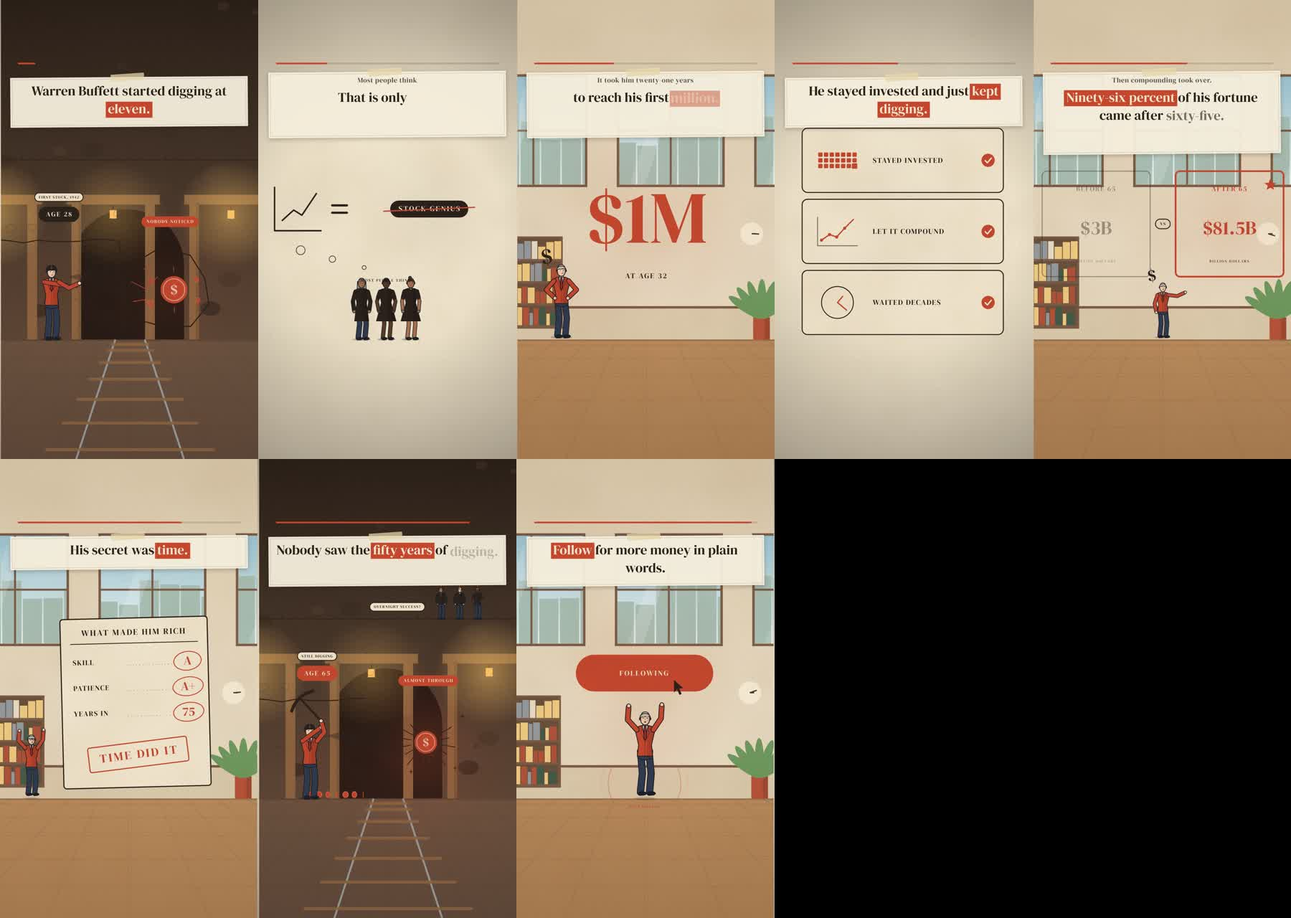
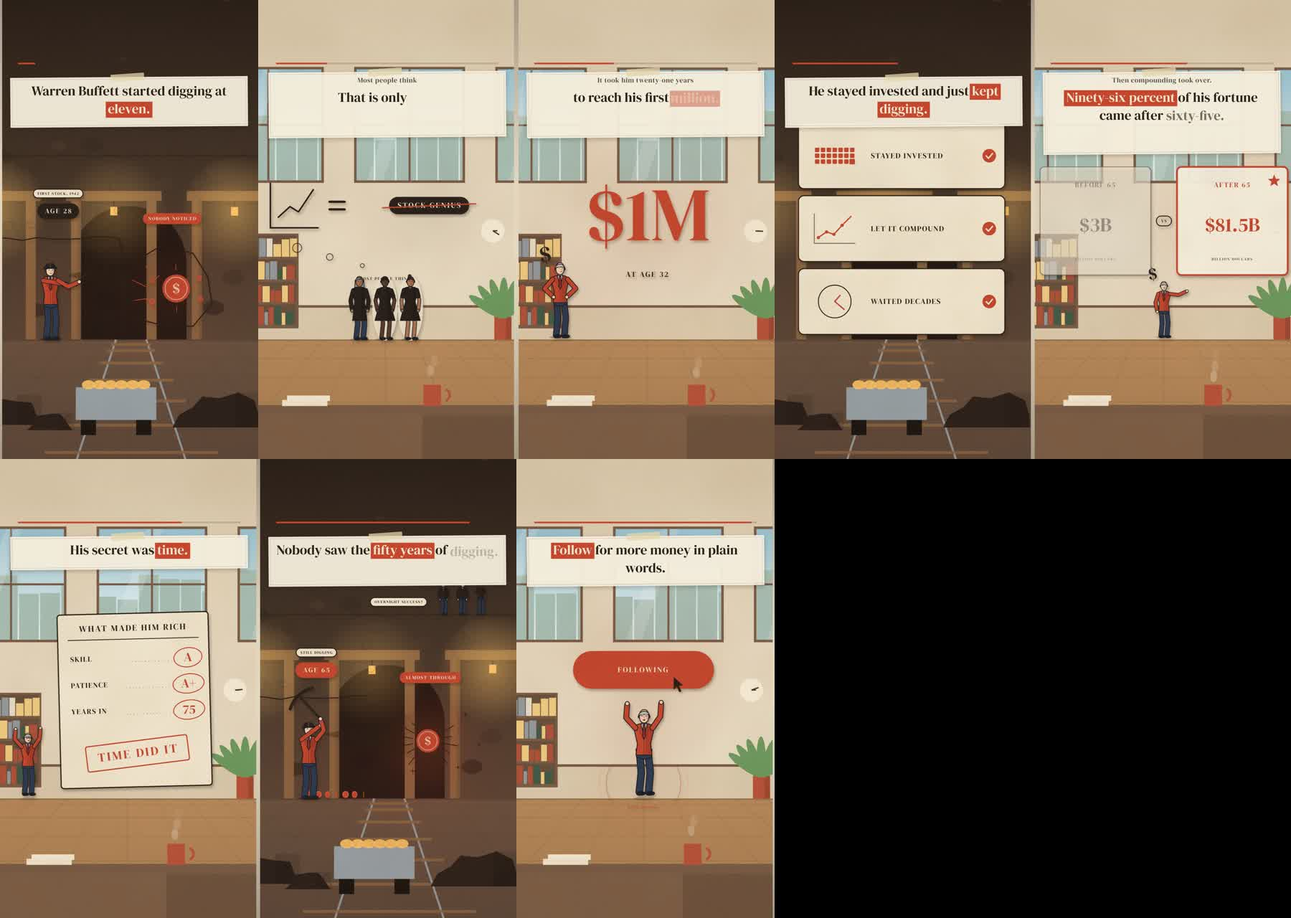
Characters and graphics sit inside the place; more movement
- Painted mode: every scene gets a place, and everything in front casts a
  soft cut-paper shadow onto it; comparison cards sit on paper
- Life in places: distant passers-by, birds, and close-up foreground props
  (desk with steaming cup, crates, bench, rocks, mine cart) in tall videos
- People shift their weight and move their heads while standing
- Stronger push-in and pan across painted places
- photo.js: use upload.wikimedia.org for thumbnails

Claude-Session: https://claude.ai/code/session_0187hUoDL1qA6raHesfUDHR6

diff --git a/Pictogram Studio.html b/Pictogram Studio.html
@@ -388,6 +388,7 @@ details[open] > summary { margin-bottom: 10px; }
       if (act === 'slump' || mood === 'sleep') { lean += 0.045 * dir; headDy += h * 0.012; tilt = 0.2 * dir; }
       if (mood === 'sad') { headDy += h * 0.006; tilt += 0.06 * dir; }
       if (mood === 'think') tilt -= 0.07 * dir;
+      if (!moving && act !== 'jump' && act !== 'cheer' && o.idle !== false) { lean += Math.sin(t * 0.9 + sd * 5) * 0.007; tilt += Math.sin(t * 0.7 + sd * 3) * 0.03 + (talk ? Math.sin(t * 3.1) * 0.04 : 0); } // weight shifts and small head moves while standing
       if (mood === 'shock' && st < 0.35) hop += Math.sin((st / 0.35) * Math.PI) * h * 0.025;
       if (act === 'shrug') { shUp = 0.02 + 0.004 * Math.sin(t * 3); tilt += 0.08 * dir; }
       if (mood === 'worried') lean += 0.004 * Math.sin(t * 31);
@@ -1096,7 +1097,7 @@ details[open] > summary { margin-bottom: 10px; }
       [['left', -1], ['right', 1]].forEach(([k, sg], i) => {
         const x = 960 + sg * off, a = g.in(0.1 + i * 0.25, 0.35), isW = P.winner === k, dim = 1 - 0.6 * win * (P.winner !== 'none' && !isW ? 1 : 0), col = isW && win > 0.5 ? g.ac : g.fg;
         if (isW) g.halo(x, cy, pw * 0.85, 0.3 * win);
-        c.save(); c.globalAlpha *= a * dim; c.strokeStyle = col; c.lineWidth = isW ? 4 + 3 * win : 4; g.rr(x - pw / 2, cy - ph / 2 + (1 - a) * 40, pw, ph, 18); c.stroke(); c.restore();
+        c.save(); c.globalAlpha *= a * dim; c.strokeStyle = col; c.lineWidth = isW ? 4 + 3 * win : 4; g.rr(x - pw / 2, cy - ph / 2 + (1 - a) * 40, pw, ph, 18); if (g.paint) { c.save(); c.globalAlpha = Math.min(1, c.globalAlpha * 1.6); c.fillStyle = 'rgba(248,240,222,0.95)'; c.fill(); c.restore(); } c.stroke(); c.restore();
         g.text(P[k], x, cy - ph / 2 + 74, { size: g.V(34, 28), wt: 700, ls: 0.12, a: a * dim, col });
         const v = (+P[k + 'Value'] || 0) * eo(ramp(t, 0.4 + i * 0.25, 0.9)), dec = Math.min(3, (String(P[k + 'Value']).split('.')[1] || '').length);
         c.save(); g.font(800, g.V(98, 78), 0); c.textAlign = 'center'; c.textBaseline = 'middle'; c.fillStyle = col; c.globalAlpha = a * dim; c.fillText((P.prefix || '') + (dec ? v.toFixed(dec) : fmt(v)) + (P.suffix || ''), x, cy + 22); c.restore();
@@ -1542,7 +1543,35 @@ details[open] > summary { margin-bottom: 10px; }
         for (let k = 0; k < 110; k++) { const x = hash(k + 1) * (x1 - x0) + x0 - drift * 20, y = top + hash(k + 7) * (GY - top), r = 1 + hash(k + 3) * 2.2; c.fillStyle = paint ? 'rgba(255,250,235,' + (0.3 + 0.6 * Math.abs(Math.sin(t * (0.6 + hash(k)) + k))) + ')' : rgba(fg, 0.2 + 0.6 * Math.abs(Math.sin(t * (0.6 + hash(k)) + k))); c.beginPath(); c.arc(x, y, r, 0, TAU); c.fill(); }
         layer(0.3, 0, () => { const gr = c.createRadialGradient(1500, GY + 900, 200, 1500, GY + 900, 1250); gr.addColorStop(0, paint ? 'rgba(130,140,220,0.5)' : rgba(ac, 0.28)); gr.addColorStop(1, 'rgba(0,0,0,0)'); c.fillStyle = gr; c.beginPath(); c.arc(1500, GY + 900, 1050, 0, TAU); c.fill(); E('red', g.V(300, 520), g.V(560, 640), 70, 70, paint ? 0.9 : 1); E('dark', g.V(320, 540), g.V(550, 630), 60, 60, 0.25); }); break;
     }
+    if (o.life !== false) { // life behind the action: people passing by in the distance, birds
+      const walkers = paint ? ({ city: 4, street: 5, market: 5, night: 3, office: 2, bank: 2, factory: 2, lab: 1, ancient: 3, farm: 1, runway: 1, courtroom: 0 }[kind] || 0) : 0;
+      for (let k = 0; k < walkers; k++) { const dir = hash(k + 3) > 0.5 ? 1 : -1, sp = 45 + hash(k + 5) * 55, wx = mod(hash(k + 1) * 2600 + t * sp * dir, 2600) - 340 - drift * 40; g.person(wx, indoor ? 200 : 165, { scale: 1, y: GY - (indoor ? 36 : 64), col: pal[k % 2 ? 'mid' : 'near'] || pal.trim, a: 0.85, act: 'walk', dir, st: t * (sp / 60) + k, seed: 40 + k * 7, shadow: false, idle: false }); }
+      if (/^(sky|hills|farm|castle|ancient|desert|forest|runway|sea)$/.test(kind)) { c.save(); c.strokeStyle = C('dark', paint ? 0.55 : 1.4); c.lineWidth = 4; c.lineCap = 'round'; for (let k = 0; k < 4; k++) { const bx = mod(hash(k + 11) * 2600 + t * (55 + k * 14), 2600) - 340, by = g.V(300, 120) + hash(k + 13) * 220 + Math.sin(t * 1.5 + k) * 12, fl = Math.sin(t * 9 + k * 2) * 11, w = 22 - k * 2; c.beginPath(); c.moveTo(bx - w, by - fl); c.quadraticCurveTo(bx - w * 0.4, by - 6, bx, by); c.quadraticCurveTo(bx + w * 0.4, by - 6, bx + w, by - fl); c.stroke(); } c.restore(); }
+    }
     if (paint && !indoor) { c.save(); c.fillStyle = 'rgba(255,240,210,0.10)'; c.fillRect(x0, GY - 260, x1 - x0, 260); c.restore(); } // haze near the horizon
+    // foreground: things close to the camera in the band under the ground (seen in tall videos), moving faster than everything else
+    const FGK = { office: 'desk', classroom: 'desk', lab: 'desk', bank: 'rope', courtroom: 'rail', stage: 'lights', home: 'sofa', city: 'bench', street: 'bench', night: 'bench', market: 'crates', factory: 'crates', mine: 'rocks', desert: 'rocks', ancient: 'ruins', castle: 'rocks', farm: 'bales', forest: 'bush', hills: 'bush', sea: 'posts', runway: 'cones', sky: 'bush', space: 'rocks' }, fk = o.fore === false ? '' : FGK[kind];
+    if (fk && g.vert && paint) layer(1.9, 0, () => { const Y = GY + 300, L0 = 470, R0 = 1450, rnd = q => hash(q * 7.3 + kind.length);
+      const crate = (x, y, w) => { R('trim', x, y - w, w, w); shade(x, y - w, w, w, 1); c.strokeStyle = paint ? 'rgba(20,12,6,0.3)' : C('dark'); c.lineWidth = 6; c.strokeRect(x + 8, y - w + 8, w - 16, w - 16); c.beginPath(); c.moveTo(x + 8, y - w + 8); c.lineTo(x + w - 8, y - 8); c.stroke(); };
+      const rock = (x, y, r) => { c.fillStyle = C('near'); c.beginPath(); for (let q = 0; q < 9; q++) { const an = Math.PI + (q / 8) * Math.PI, rr = r * (0.8 + 0.3 * rnd(q + x)); c.lineTo(x + Math.cos(an) * rr * 1.3, y + Math.sin(an) * rr); } c.closePath(); c.fill(); shade(x - r * 1.3, y - r, r * 2.6, r, 1); };
+      const bush = (x, y, r) => { [[-0.6, 0.1, 0.7], [0.5, 0.15, 0.65], [0, -0.25, 0.8]].forEach(([dx, dy, k]) => E(kind === 'farm' ? 'leaf' : 'near', x + dx * r, y + dy * r, r * k, r * k * 0.85)); };
+      switch (fk) {
+        case 'desk': R('trim', 330, Y - 40, 1260, 40); R('trim', 360, Y, 1200, 600, 0.92); shade(360, Y, 1200, 600, 1); R('cream', 620, Y - 60, 180, 24, 0.95); R('cream', 640, Y - 78, 170, 22); R('red', 1180, Y - 120, 70, 84); c.strokeStyle = C('red'); c.lineWidth = 10; c.beginPath(); c.arc(1260, Y - 80, 24, -1.2, 1.2); c.stroke();
+          for (let q = 0; q < 3; q++) { c.save(); c.globalAlpha *= 0.35 * (1 - mod(t * 0.4 + q / 3, 1)); E('cream', 1215 + Math.sin(t * 2 + q) * 10, Y - 140 - mod(t * 0.4 + q / 3, 1) * 120, 14, 22); c.restore(); } break;
+        case 'rope': [L0 + 20, R0 - 20].forEach(x => { R('metal', x - 10, Y - 200, 20, 260); E('light', x, Y - 206, 24, 24); }); c.strokeStyle = C('red'); c.lineWidth = 16; c.beginPath(); c.moveTo(L0 + 20, Y - 180); c.quadraticCurveTo(960, Y - 60 + Math.sin(t * 1.4) * 8, R0 - 20, Y - 180); c.stroke(); break;
+        case 'rail': R('trim', 300, Y - 160, 1320, 30); for (let x = 320; x < 1620; x += 70) R('trim', x, Y - 130, 22, 300); R('dark', 300, Y + 160, 1320, 40, 0.8); break;
+        case 'lights': R('dark', 300, Y - 40, 1320, 400); for (let k = 0; k < 9; k++) { const lx = 420 + k * 135; E('light', lx, Y - 40, 34, 16); glowAt(lx, Y - 60, 160, 0.55 + 0.15 * Math.sin(t * 3 + k)); } break;
+        case 'sofa': R('red', 380, Y - 80, 1160, 180, 0.95); E('red', 380, Y + 30, 90, 130); E('red', 1540, Y + 30, 90, 130); shade(380, Y - 80, 1160, 180, 1); R('cream', 760, Y - 60, 140, 90, 0.9); break;
+        case 'bench': R('trim', L0 - 40, Y - 120, 380, 28); R('trim', L0 - 40, Y - 70, 380, 28); R('dark', L0 - 10, Y - 42, 18, 110); R('dark', L0 + 300, Y - 42, 18, 110); R('red', R0 - 120, Y - 150, 70, 150); E('red', R0 - 85, Y - 150, 35, 22); R('red', R0 - 140, Y - 110, 110, 22); shade(R0 - 120, Y - 150, 70, 150, 1); break;
+        case 'crates': crate(L0 - 60, Y + 40, 220); crate(L0 + 150, Y + 40, 150); crate(L0 + 40, Y - 180, 140); crate(R0 - 190, Y + 40, 200); if (kind === 'market') for (let q = 0; q < 7; q++) E(['red', 'light', 'leaf'][q % 3], R0 - 160 + q * 26, Y - 170 - (q % 2) * 16, 22, 20); break;
+        case 'rocks': rock(L0 + 40, Y + 40, 120); rock(L0 + 230, Y + 60, 70); rock(R0 - 80, Y + 50, 140); if (kind === 'mine') { R('metal', 960 - 160, Y - 110, 320, 130); R('dark', 960 - 140, Y + 20, 60, 60); R('dark', 960 + 80, Y + 20, 60, 60); for (let q = 0; q < 6; q++) E('light', 960 - 110 + q * 44, Y - 120, 26, 18, 0.9); } break;
+        case 'ruins': R('cream', L0 - 20, Y - 260, 110, 300); shade(L0 - 20, Y - 260, 110, 300, 1); R('cream', R0 - 260, Y - 60, 260, 100); shade(R0 - 260, Y - 60, 260, 100, 1); rock(960 + 120, Y + 60, 60); break;
+        case 'bales': [[L0 + 60, 120], [L0 + 250, 90], [R0 - 120, 130]].forEach(([x, r]) => { E('light', x, Y + 20, r, r * 0.9); c.strokeStyle = paint ? 'rgba(120,80,20,0.4)' : C('dark'); c.lineWidth = 5; c.beginPath(); c.arc(x, Y + 20, r * 0.6, 0, TAU); c.stroke(); }); break;
+        case 'bush': bush(L0 + 60, Y + 30, 150); bush(R0 - 60, Y + 50, 170); break;
+        case 'posts': [L0 + 40, R0 - 60].forEach(x => { R('trim', x - 40, Y - 280, 80, 420); shade(x - 40, Y - 280, 80, 420, 1); }); c.strokeStyle = C('cream', 1); c.lineWidth = 12; c.beginPath(); c.moveTo(L0 + 40, Y - 220); c.quadraticCurveTo(960, Y - 80 + Math.sin(t * 1.2) * 10, R0 - 60, Y - 220); c.stroke(); break;
+        case 'cones': [L0 + 60, L0 + 230, R0 - 80].forEach((x, q) => { Poly('red', [[x - 50, Y + 40], [x, Y - 120 + q * 20], [x + 50, Y + 40]]); R('cream', x - 30, Y - 50 + q * 10, 60, 18); }); break;
+      } });
+
   }
   function stageOf(g) { const top = g.V(250, 150), xl = g.V(360, 450), xr = g.V(1560, 1470), H = g.GY - top; return { U: H / 100, W: xr - xl, H, xl, xr, X: x => xl + (x / 100) * (xr - xl), Y: y => top + (y / 100) * H }; }
   function drawItems(g, items, st, inGroup, depth) {
@@ -1590,7 +1619,7 @@ details[open] > summary { margin-bottom: 10px; }
           const em = cur.emote ? String(cur.emote).slice(0, 3) : ''; if (em && st >= 0) { const zz = /^z+$/i.test(em), ex0 = -dir * h * 0.2, ey0 = -h * 1.1; if (zz) for (let k = 0; k < 3; k++) { const ph = mod(g.t * 0.5 + k / 3, 1); g.text('Z', ex0 - dir * ph * h * 0.25, ey0 - ph * h * 0.4, { size: h * (0.09 + 0.07 * ph), a: Math.sin(ph * Math.PI), col: g.fg, wt: 800, ls: 0 }); } else { const ps = back(clamp(st / 0.3)); c.save(); c.translate(ex0, ey0 + Math.sin(g.t * 5) * h * 0.02); c.scale(ps, ps); c.rotate(-dir * 0.14); g.text(em.toUpperCase(), 0, 0, { size: h * 0.3, col: pc === g.ac ? g.fg : g.ac, wt: 900, ls: 0 }); c.restore(); } }
           break; }
         case 'photo': case 'image': drawPhoto(g, e, num(e.w, 40) * U, col); break;
-        case 'scenery': c.restore(); c.save(); c.globalAlpha *= clamp(a); drawScenery(g, e.kind || e.name, e); break;
+        case 'scenery': if (g.skipScenery) break; c.restore(); c.save(); c.globalAlpha *= clamp(a); drawScenery(g, e.kind || e.name, e); break;
         case 'crowd': { const n = clamp(num(e.n, 3) | 0, 1, 9), h = num(e.h, 22) * U; for (let k = 0; k < n; k++) g.person((k - (n - 1) / 2) * h * 0.5, h, { y: 0, col: col || g.fg, ol: k > 0 }); break; }
         case 'icon': g.icon(String(e.name || 'star'), 0, 0, size(18), col || g.fg, Math.max(3, num(e.width, 0.6) * U)); break;
         case 'coin': g.coin(0, 0, size(12) / 2, e.symbol == null ? '$' : String(e.symbol), e.spin ? g.t * 2.4 * (e.spin === true ? 1 : +e.spin || 1) : 0, 1); break;
@@ -1713,11 +1742,13 @@ details[open] > summary { margin-bottom: 10px; }
     if (i > 0 && lt < TI) { const k = kindAt(i - 1); if (k !== 'cut') { const p = lt / TI; alpha = eo(p); move(k, p, true); } }
     if (!last && lt > sc.dur - TO) { const k = kindAt(i); if (k !== 'cut') { const p = (lt - (sc.dur - TO)) / TO; alpha = 1 - p; move(k, p, false); } }
     const L = layer.getContext('2d'); L.setTransform(1, 0, 0, 1, 0, 0); L.clearRect(0, 0, W, H);
-    let z = 1 + 0.035 * (lt / sc.dur); (sc.lines || []).forEach(l => { const dt = lt - (+l.at || 0); if (l.text && dt >= 0 && (+l.at > 0.05 || i > 0)) z += 0.02 * Math.exp(-dt * 9); }); /* small punch when a line lands */
+    let z = 1 + (look.scenery === 'painted' ? 0.07 : 0.035) * (lt / sc.dur); (sc.lines || []).forEach(l => { const dt = lt - (+l.at || 0); if (l.text && dt >= 0 && (+l.at > 0.05 || i > 0)) z += 0.02 * Math.exp(-dt * 9); }); /* small punch when a line lands */
     L.setTransform(px * sv * z, 0, 0, px * sv * z, px * (tx + 960 * sv * (1 - z)), px * (ty + 1031 * sv * (1 - z)));
-    const g = new G(L, proj, sc, lt, vert), vis = V[sc.visual]; if (vis) { try { const scn = sc.p && sc.p.scenery, hasScn = sc.visual === 'custom' && (sc.p.items || []).some(e => e && /^scenery$/i.test(e.is || '')); if (scn) drawScenery(g, typeof scn === 'object' ? scn.kind : scn, typeof scn === 'object' ? scn : null); else if (!hasScn && scn !== 'none') { const k = autoScenery(proj, sc, PEOPLE.indexOf(sc.visual) >= 0 || hasPerson(sc.p && (sc.visual === 'custom' ? sc.p.items : sc.p.cast))); if (k) drawScenery(g, k, null); } vis.draw(g); if (sc.visual !== 'custom' && Array.isArray(sc.p && sc.p.cast)) drawItems(g, sc.p.cast, stageOf(g), false, 0); } catch (e) { if (root.console) console.error(sc.visual, e); } }
+    const cut = look.scenery === 'painted'; let Lc = L; if (cut) { if (!render._c) render._c = doc.createElement('canvas'); const cc = render._c; if (cc.width !== W || cc.height !== H) { cc.width = W; cc.height = H; } Lc = cc.getContext('2d'); Lc.setTransform(1, 0, 0, 1, 0, 0); Lc.clearRect(0, 0, W, H); Lc.setTransform(L.getTransform()); }
+    const g = new G(Lc, proj, sc, lt, vert), gs = cut ? new G(L, proj, sc, lt, vert) : g, vis = V[sc.visual]; g.skipScenery = cut; if (vis) { try { if (cut && sc.visual === 'custom' && Array.isArray(sc.p.items)) sc.p.items.filter(e => e && /^scenery$/i.test(e.is || '')).slice(0, 1).forEach(e => drawScenery(gs, e.kind || e.name, e)); const scn = sc.p && sc.p.scenery, painted = look.scenery === 'painted', hasScn = sc.visual === 'custom' && (sc.p.items || []).some(e => e && /^scenery$/i.test(e.is || '')); if (scn) drawScenery(gs, typeof scn === 'object' ? scn.kind : scn, typeof scn === 'object' ? scn : null); else if (!hasScn && scn !== 'none') { const k = autoScenery(proj, sc, painted || PEOPLE.indexOf(sc.visual) >= 0 || hasPerson(sc.p && (sc.visual === 'custom' ? sc.p.items : sc.p.cast))); if (k) drawScenery(gs, k, null); } vis.draw(g); if (sc.visual !== 'custom' && Array.isArray(sc.p && sc.p.cast)) drawItems(g, sc.p.cast, stageOf(g), false, 0); } catch (e) { if (root.console) console.error(sc.visual, e); } }
+    if (cut) { L.save(); L.setTransform(1, 0, 0, 1, 0, 0); L.shadowColor = 'rgba(45,28,12,0.34)'; L.shadowBlur = 12 * px; L.shadowOffsetX = 5 * px; L.shadowOffsetY = 8 * px; L.drawImage(render._c, 0, 0); L.restore(); } // graphics and people sit in the place like cut paper, with a soft shadow on what is behind them
     if (g.shk > 0.2) { off += Math.sin(t * 97) * g.shk; offY += Math.cos(t * 83) * g.shk * 0.8; } // camera kick from a hit
-    off += (i % 2 ? -1 : 1) * 16 * (lt / sc.dur - 0.5); // slow sideways drift so no frame sits still
+    off += (i % 2 ? -1 : 1) * (look.scenery === 'painted' ? 34 : 16) * (lt / sc.dur - 0.5); // slow sideways drift so no frame sits still
     const blit = (a, dx, dy, s) => { ctx.globalAlpha = Math.min(1, a); if (!s || s === 1) ctx.drawImage(layer, dx * px, (dy || 0) * px); else ctx.drawImage(layer, (W - W * s) / 2 + dx * px, (H - H * s) / 2 + (dy || 0) * px, W * s, H * s); };
     // glow first (underneath), then the sharp layer on top so solid shapes keep their exact color
     ctx.globalCompositeOperation = 'lighter';

diff --git a/engine.js b/engine.js
@@ -98,6 +98,7 @@
       if (act === 'slump' || mood === 'sleep') { lean += 0.045 * dir; headDy += h * 0.012; tilt = 0.2 * dir; }
       if (mood === 'sad') { headDy += h * 0.006; tilt += 0.06 * dir; }
       if (mood === 'think') tilt -= 0.07 * dir;
+      if (!moving && act !== 'jump' && act !== 'cheer' && o.idle !== false) { lean += Math.sin(t * 0.9 + sd * 5) * 0.007; tilt += Math.sin(t * 0.7 + sd * 3) * 0.03 + (talk ? Math.sin(t * 3.1) * 0.04 : 0); } // weight shifts and small head moves while standing
       if (mood === 'shock' && st < 0.35) hop += Math.sin((st / 0.35) * Math.PI) * h * 0.025;
       if (act === 'shrug') { shUp = 0.02 + 0.004 * Math.sin(t * 3); tilt += 0.08 * dir; }
       if (mood === 'worried') lean += 0.004 * Math.sin(t * 31);
@@ -806,7 +807,7 @@
       [['left', -1], ['right', 1]].forEach(([k, sg], i) => {
         const x = 960 + sg * off, a = g.in(0.1 + i * 0.25, 0.35), isW = P.winner === k, dim = 1 - 0.6 * win * (P.winner !== 'none' && !isW ? 1 : 0), col = isW && win > 0.5 ? g.ac : g.fg;
         if (isW) g.halo(x, cy, pw * 0.85, 0.3 * win);
-        c.save(); c.globalAlpha *= a * dim; c.strokeStyle = col; c.lineWidth = isW ? 4 + 3 * win : 4; g.rr(x - pw / 2, cy - ph / 2 + (1 - a) * 40, pw, ph, 18); c.stroke(); c.restore();
+        c.save(); c.globalAlpha *= a * dim; c.strokeStyle = col; c.lineWidth = isW ? 4 + 3 * win : 4; g.rr(x - pw / 2, cy - ph / 2 + (1 - a) * 40, pw, ph, 18); if (g.paint) { c.save(); c.globalAlpha = Math.min(1, c.globalAlpha * 1.6); c.fillStyle = 'rgba(248,240,222,0.95)'; c.fill(); c.restore(); } c.stroke(); c.restore();
         g.text(P[k], x, cy - ph / 2 + 74, { size: g.V(34, 28), wt: 700, ls: 0.12, a: a * dim, col });
         const v = (+P[k + 'Value'] || 0) * eo(ramp(t, 0.4 + i * 0.25, 0.9)), dec = Math.min(3, (String(P[k + 'Value']).split('.')[1] || '').length);
         c.save(); g.font(800, g.V(98, 78), 0); c.textAlign = 'center'; c.textBaseline = 'middle'; c.fillStyle = col; c.globalAlpha = a * dim; c.fillText((P.prefix || '') + (dec ? v.toFixed(dec) : fmt(v)) + (P.suffix || ''), x, cy + 22); c.restore();
@@ -1252,7 +1253,35 @@
         for (let k = 0; k < 110; k++) { const x = hash(k + 1) * (x1 - x0) + x0 - drift * 20, y = top + hash(k + 7) * (GY - top), r = 1 + hash(k + 3) * 2.2; c.fillStyle = paint ? 'rgba(255,250,235,' + (0.3 + 0.6 * Math.abs(Math.sin(t * (0.6 + hash(k)) + k))) + ')' : rgba(fg, 0.2 + 0.6 * Math.abs(Math.sin(t * (0.6 + hash(k)) + k))); c.beginPath(); c.arc(x, y, r, 0, TAU); c.fill(); }
         layer(0.3, 0, () => { const gr = c.createRadialGradient(1500, GY + 900, 200, 1500, GY + 900, 1250); gr.addColorStop(0, paint ? 'rgba(130,140,220,0.5)' : rgba(ac, 0.28)); gr.addColorStop(1, 'rgba(0,0,0,0)'); c.fillStyle = gr; c.beginPath(); c.arc(1500, GY + 900, 1050, 0, TAU); c.fill(); E('red', g.V(300, 520), g.V(560, 640), 70, 70, paint ? 0.9 : 1); E('dark', g.V(320, 540), g.V(550, 630), 60, 60, 0.25); }); break;
     }
+    if (o.life !== false) { // life behind the action: people passing by in the distance, birds
+      const walkers = paint ? ({ city: 4, street: 5, market: 5, night: 3, office: 2, bank: 2, factory: 2, lab: 1, ancient: 3, farm: 1, runway: 1, courtroom: 0 }[kind] || 0) : 0;
+      for (let k = 0; k < walkers; k++) { const dir = hash(k + 3) > 0.5 ? 1 : -1, sp = 45 + hash(k + 5) * 55, wx = mod(hash(k + 1) * 2600 + t * sp * dir, 2600) - 340 - drift * 40; g.person(wx, indoor ? 200 : 165, { scale: 1, y: GY - (indoor ? 36 : 64), col: pal[k % 2 ? 'mid' : 'near'] || pal.trim, a: 0.85, act: 'walk', dir, st: t * (sp / 60) + k, seed: 40 + k * 7, shadow: false, idle: false }); }
+      if (/^(sky|hills|farm|castle|ancient|desert|forest|runway|sea)$/.test(kind)) { c.save(); c.strokeStyle = C('dark', paint ? 0.55 : 1.4); c.lineWidth = 4; c.lineCap = 'round'; for (let k = 0; k < 4; k++) { const bx = mod(hash(k + 11) * 2600 + t * (55 + k * 14), 2600) - 340, by = g.V(300, 120) + hash(k + 13) * 220 + Math.sin(t * 1.5 + k) * 12, fl = Math.sin(t * 9 + k * 2) * 11, w = 22 - k * 2; c.beginPath(); c.moveTo(bx - w, by - fl); c.quadraticCurveTo(bx - w * 0.4, by - 6, bx, by); c.quadraticCurveTo(bx + w * 0.4, by - 6, bx + w, by - fl); c.stroke(); } c.restore(); }
+    }
     if (paint && !indoor) { c.save(); c.fillStyle = 'rgba(255,240,210,0.10)'; c.fillRect(x0, GY - 260, x1 - x0, 260); c.restore(); } // haze near the horizon
+    // foreground: things close to the camera in the band under the ground (seen in tall videos), moving faster than everything else
+    const FGK = { office: 'desk', classroom: 'desk', lab: 'desk', bank: 'rope', courtroom: 'rail', stage: 'lights', home: 'sofa', city: 'bench', street: 'bench', night: 'bench', market: 'crates', factory: 'crates', mine: 'rocks', desert: 'rocks', ancient: 'ruins', castle: 'rocks', farm: 'bales', forest: 'bush', hills: 'bush', sea: 'posts', runway: 'cones', sky: 'bush', space: 'rocks' }, fk = o.fore === false ? '' : FGK[kind];
+    if (fk && g.vert && paint) layer(1.9, 0, () => { const Y = GY + 300, L0 = 470, R0 = 1450, rnd = q => hash(q * 7.3 + kind.length);
+      const crate = (x, y, w) => { R('trim', x, y - w, w, w); shade(x, y - w, w, w, 1); c.strokeStyle = paint ? 'rgba(20,12,6,0.3)' : C('dark'); c.lineWidth = 6; c.strokeRect(x + 8, y - w + 8, w - 16, w - 16); c.beginPath(); c.moveTo(x + 8, y - w + 8); c.lineTo(x + w - 8, y - 8); c.stroke(); };
+      const rock = (x, y, r) => { c.fillStyle = C('near'); c.beginPath(); for (let q = 0; q < 9; q++) { const an = Math.PI + (q / 8) * Math.PI, rr = r * (0.8 + 0.3 * rnd(q + x)); c.lineTo(x + Math.cos(an) * rr * 1.3, y + Math.sin(an) * rr); } c.closePath(); c.fill(); shade(x - r * 1.3, y - r, r * 2.6, r, 1); };
+      const bush = (x, y, r) => { [[-0.6, 0.1, 0.7], [0.5, 0.15, 0.65], [0, -0.25, 0.8]].forEach(([dx, dy, k]) => E(kind === 'farm' ? 'leaf' : 'near', x + dx * r, y + dy * r, r * k, r * k * 0.85)); };
+      switch (fk) {
+        case 'desk': R('trim', 330, Y - 40, 1260, 40); R('trim', 360, Y, 1200, 600, 0.92); shade(360, Y, 1200, 600, 1); R('cream', 620, Y - 60, 180, 24, 0.95); R('cream', 640, Y - 78, 170, 22); R('red', 1180, Y - 120, 70, 84); c.strokeStyle = C('red'); c.lineWidth = 10; c.beginPath(); c.arc(1260, Y - 80, 24, -1.2, 1.2); c.stroke();
+          for (let q = 0; q < 3; q++) { c.save(); c.globalAlpha *= 0.35 * (1 - mod(t * 0.4 + q / 3, 1)); E('cream', 1215 + Math.sin(t * 2 + q) * 10, Y - 140 - mod(t * 0.4 + q / 3, 1) * 120, 14, 22); c.restore(); } break;
+        case 'rope': [L0 + 20, R0 - 20].forEach(x => { R('metal', x - 10, Y - 200, 20, 260); E('light', x, Y - 206, 24, 24); }); c.strokeStyle = C('red'); c.lineWidth = 16; c.beginPath(); c.moveTo(L0 + 20, Y - 180); c.quadraticCurveTo(960, Y - 60 + Math.sin(t * 1.4) * 8, R0 - 20, Y - 180); c.stroke(); break;
+        case 'rail': R('trim', 300, Y - 160, 1320, 30); for (let x = 320; x < 1620; x += 70) R('trim', x, Y - 130, 22, 300); R('dark', 300, Y + 160, 1320, 40, 0.8); break;
+        case 'lights': R('dark', 300, Y - 40, 1320, 400); for (let k = 0; k < 9; k++) { const lx = 420 + k * 135; E('light', lx, Y - 40, 34, 16); glowAt(lx, Y - 60, 160, 0.55 + 0.15 * Math.sin(t * 3 + k)); } break;
+        case 'sofa': R('red', 380, Y - 80, 1160, 180, 0.95); E('red', 380, Y + 30, 90, 130); E('red', 1540, Y + 30, 90, 130); shade(380, Y - 80, 1160, 180, 1); R('cream', 760, Y - 60, 140, 90, 0.9); break;
+        case 'bench': R('trim', L0 - 40, Y - 120, 380, 28); R('trim', L0 - 40, Y - 70, 380, 28); R('dark', L0 - 10, Y - 42, 18, 110); R('dark', L0 + 300, Y - 42, 18, 110); R('red', R0 - 120, Y - 150, 70, 150); E('red', R0 - 85, Y - 150, 35, 22); R('red', R0 - 140, Y - 110, 110, 22); shade(R0 - 120, Y - 150, 70, 150, 1); break;
+        case 'crates': crate(L0 - 60, Y + 40, 220); crate(L0 + 150, Y + 40, 150); crate(L0 + 40, Y - 180, 140); crate(R0 - 190, Y + 40, 200); if (kind === 'market') for (let q = 0; q < 7; q++) E(['red', 'light', 'leaf'][q % 3], R0 - 160 + q * 26, Y - 170 - (q % 2) * 16, 22, 20); break;
+        case 'rocks': rock(L0 + 40, Y + 40, 120); rock(L0 + 230, Y + 60, 70); rock(R0 - 80, Y + 50, 140); if (kind === 'mine') { R('metal', 960 - 160, Y - 110, 320, 130); R('dark', 960 - 140, Y + 20, 60, 60); R('dark', 960 + 80, Y + 20, 60, 60); for (let q = 0; q < 6; q++) E('light', 960 - 110 + q * 44, Y - 120, 26, 18, 0.9); } break;
+        case 'ruins': R('cream', L0 - 20, Y - 260, 110, 300); shade(L0 - 20, Y - 260, 110, 300, 1); R('cream', R0 - 260, Y - 60, 260, 100); shade(R0 - 260, Y - 60, 260, 100, 1); rock(960 + 120, Y + 60, 60); break;
+        case 'bales': [[L0 + 60, 120], [L0 + 250, 90], [R0 - 120, 130]].forEach(([x, r]) => { E('light', x, Y + 20, r, r * 0.9); c.strokeStyle = paint ? 'rgba(120,80,20,0.4)' : C('dark'); c.lineWidth = 5; c.beginPath(); c.arc(x, Y + 20, r * 0.6, 0, TAU); c.stroke(); }); break;
+        case 'bush': bush(L0 + 60, Y + 30, 150); bush(R0 - 60, Y + 50, 170); break;
+        case 'posts': [L0 + 40, R0 - 60].forEach(x => { R('trim', x - 40, Y - 280, 80, 420); shade(x - 40, Y - 280, 80, 420, 1); }); c.strokeStyle = C('cream', 1); c.lineWidth = 12; c.beginPath(); c.moveTo(L0 + 40, Y - 220); c.quadraticCurveTo(960, Y - 80 + Math.sin(t * 1.2) * 10, R0 - 60, Y - 220); c.stroke(); break;
+        case 'cones': [L0 + 60, L0 + 230, R0 - 80].forEach((x, q) => { Poly('red', [[x - 50, Y + 40], [x, Y - 120 + q * 20], [x + 50, Y + 40]]); R('cream', x - 30, Y - 50 + q * 10, 60, 18); }); break;
+      } });
+
   }
   function stageOf(g) { const top = g.V(250, 150), xl = g.V(360, 450), xr = g.V(1560, 1470), H = g.GY - top; return { U: H / 100, W: xr - xl, H, xl, xr, X: x => xl + (x / 100) * (xr - xl), Y: y => top + (y / 100) * H }; }
   function drawItems(g, items, st, inGroup, depth) {
@@ -1300,7 +1329,7 @@
           const em = cur.emote ? String(cur.emote).slice(0, 3) : ''; if (em && st >= 0) { const zz = /^z+$/i.test(em), ex0 = -dir * h * 0.2, ey0 = -h * 1.1; if (zz) for (let k = 0; k < 3; k++) { const ph = mod(g.t * 0.5 + k / 3, 1); g.text('Z', ex0 - dir * ph * h * 0.25, ey0 - ph * h * 0.4, { size: h * (0.09 + 0.07 * ph), a: Math.sin(ph * Math.PI), col: g.fg, wt: 800, ls: 0 }); } else { const ps = back(clamp(st / 0.3)); c.save(); c.translate(ex0, ey0 + Math.sin(g.t * 5) * h * 0.02); c.scale(ps, ps); c.rotate(-dir * 0.14); g.text(em.toUpperCase(), 0, 0, { size: h * 0.3, col: pc === g.ac ? g.fg : g.ac, wt: 900, ls: 0 }); c.restore(); } }
           break; }
         case 'photo': case 'image': drawPhoto(g, e, num(e.w, 40) * U, col); break;
-        case 'scenery': c.restore(); c.save(); c.globalAlpha *= clamp(a); drawScenery(g, e.kind || e.name, e); break;
+        case 'scenery': if (g.skipScenery) break; c.restore(); c.save(); c.globalAlpha *= clamp(a); drawScenery(g, e.kind || e.name, e); break;
         case 'crowd': { const n = clamp(num(e.n, 3) | 0, 1, 9), h = num(e.h, 22) * U; for (let k = 0; k < n; k++) g.person((k - (n - 1) / 2) * h * 0.5, h, { y: 0, col: col || g.fg, ol: k > 0 }); break; }
         case 'icon': g.icon(String(e.name || 'star'), 0, 0, size(18), col || g.fg, Math.max(3, num(e.width, 0.6) * U)); break;
         case 'coin': g.coin(0, 0, size(12) / 2, e.symbol == null ? '$' : String(e.symbol), e.spin ? g.t * 2.4 * (e.spin === true ? 1 : +e.spin || 1) : 0, 1); break;
@@ -1423,11 +1452,13 @@
     if (i > 0 && lt < TI) { const k = kindAt(i - 1); if (k !== 'cut') { const p = lt / TI; alpha = eo(p); move(k, p, true); } }
     if (!last && lt > sc.dur - TO) { const k = kindAt(i); if (k !== 'cut') { const p = (lt - (sc.dur - TO)) / TO; alpha = 1 - p; move(k, p, false); } }
     const L = layer.getContext('2d'); L.setTransform(1, 0, 0, 1, 0, 0); L.clearRect(0, 0, W, H);
-    let z = 1 + 0.035 * (lt / sc.dur); (sc.lines || []).forEach(l => { const dt = lt - (+l.at || 0); if (l.text && dt >= 0 && (+l.at > 0.05 || i > 0)) z += 0.02 * Math.exp(-dt * 9); }); /* small punch when a line lands */
+    let z = 1 + (look.scenery === 'painted' ? 0.07 : 0.035) * (lt / sc.dur); (sc.lines || []).forEach(l => { const dt = lt - (+l.at || 0); if (l.text && dt >= 0 && (+l.at > 0.05 || i > 0)) z += 0.02 * Math.exp(-dt * 9); }); /* small punch when a line lands */
     L.setTransform(px * sv * z, 0, 0, px * sv * z, px * (tx + 960 * sv * (1 - z)), px * (ty + 1031 * sv * (1 - z)));
-    const g = new G(L, proj, sc, lt, vert), vis = V[sc.visual]; if (vis) { try { const scn = sc.p && sc.p.scenery, hasScn = sc.visual === 'custom' && (sc.p.items || []).some(e => e && /^scenery$/i.test(e.is || '')); if (scn) drawScenery(g, typeof scn === 'object' ? scn.kind : scn, typeof scn === 'object' ? scn : null); else if (!hasScn && scn !== 'none') { const k = autoScenery(proj, sc, PEOPLE.indexOf(sc.visual) >= 0 || hasPerson(sc.p && (sc.visual === 'custom' ? sc.p.items : sc.p.cast))); if (k) drawScenery(g, k, null); } vis.draw(g); if (sc.visual !== 'custom' && Array.isArray(sc.p && sc.p.cast)) drawItems(g, sc.p.cast, stageOf(g), false, 0); } catch (e) { if (root.console) console.error(sc.visual, e); } }
+    const cut = look.scenery === 'painted'; let Lc = L; if (cut) { if (!render._c) render._c = doc.createElement('canvas'); const cc = render._c; if (cc.width !== W || cc.height !== H) { cc.width = W; cc.height = H; } Lc = cc.getContext('2d'); Lc.setTransform(1, 0, 0, 1, 0, 0); Lc.clearRect(0, 0, W, H); Lc.setTransform(L.getTransform()); }
+    const g = new G(Lc, proj, sc, lt, vert), gs = cut ? new G(L, proj, sc, lt, vert) : g, vis = V[sc.visual]; g.skipScenery = cut; if (vis) { try { if (cut && sc.visual === 'custom' && Array.isArray(sc.p.items)) sc.p.items.filter(e => e && /^scenery$/i.test(e.is || '')).slice(0, 1).forEach(e => drawScenery(gs, e.kind || e.name, e)); const scn = sc.p && sc.p.scenery, painted = look.scenery === 'painted', hasScn = sc.visual === 'custom' && (sc.p.items || []).some(e => e && /^scenery$/i.test(e.is || '')); if (scn) drawScenery(gs, typeof scn === 'object' ? scn.kind : scn, typeof scn === 'object' ? scn : null); else if (!hasScn && scn !== 'none') { const k = autoScenery(proj, sc, painted || PEOPLE.indexOf(sc.visual) >= 0 || hasPerson(sc.p && (sc.visual === 'custom' ? sc.p.items : sc.p.cast))); if (k) drawScenery(gs, k, null); } vis.draw(g); if (sc.visual !== 'custom' && Array.isArray(sc.p && sc.p.cast)) drawItems(g, sc.p.cast, stageOf(g), false, 0); } catch (e) { if (root.console) console.error(sc.visual, e); } }
+    if (cut) { L.save(); L.setTransform(1, 0, 0, 1, 0, 0); L.shadowColor = 'rgba(45,28,12,0.34)'; L.shadowBlur = 12 * px; L.shadowOffsetX = 5 * px; L.shadowOffsetY = 8 * px; L.drawImage(render._c, 0, 0); L.restore(); } // graphics and people sit in the place like cut paper, with a soft shadow on what is behind them
     if (g.shk > 0.2) { off += Math.sin(t * 97) * g.shk; offY += Math.cos(t * 83) * g.shk * 0.8; } // camera kick from a hit
-    off += (i % 2 ? -1 : 1) * 16 * (lt / sc.dur - 0.5); // slow sideways drift so no frame sits still
+    off += (i % 2 ? -1 : 1) * (look.scenery === 'painted' ? 34 : 16) * (lt / sc.dur - 0.5); // slow sideways drift so no frame sits still
     const blit = (a, dx, dy, s) => { ctx.globalAlpha = Math.min(1, a); if (!s || s === 1) ctx.drawImage(layer, dx * px, (dy || 0) * px); else ctx.drawImage(layer, (W - W * s) / 2 + dx * px, (H - H * s) / 2 + (dy || 0) * px, W * s, H * s); };
     // glow first (underneath), then the sharp layer on top so solid shapes keep their exact color
     ctx.globalCompositeOperation = 'lighter';

diff --git a/photo.js b/photo.js
@@ -22,7 +22,7 @@ const save = (p, b, meta) => { const pr = JSON.parse(fs.readFileSync(file, 'utf8
   if (!page.imageinfo) throw new Error('Not found on Commons: ' + title);
   const ii = page.imageinfo[0], m = ii.extmetadata || {}, lic = strip(m.LicenseShortName && m.LicenseShortName.value), who = strip(m.Artist && m.Artist.value) || 'unknown author';
   if (!/^(CC0|CC BY|Public domain|PD|GFDL)/i.test(lic)) console.log('WARNING: check this licence before publishing:', lic);
-  const tmp = fs.mkdtempSync(path.join(os.tmpdir(), 'photo-')), a = path.join(tmp, 'in'), b = path.join(tmp, 'out.jpg'); get(ii.thumburl || ii.url, a);
+  const tmp = fs.mkdtempSync(path.join(os.tmpdir(), 'photo-')), a = path.join(tmp, 'in'), b = path.join(tmp, 'out.jpg'); get(String(ii.thumburl || ii.url).replace('//thumb.wikimedia.org/', '//upload.wikimedia.org/'), a); // thumb.wikimedia.org is not on the network allowlist
   execFileSync('ffmpeg', ['-y', '-loglevel', 'error', '-i', a, '-vf', `scale='min(${W},iw)':-2`, '-q:v', '4', b]);
   const meta = { title: strip(page.title), who, lic, url: ii.descriptionurl };
   fs.mkdirSync(cacheDir, { recursive: true }); fs.copyFileSync(b, cb); fs.writeFileSync(cj, JSON.stringify(meta));

diff --git a/HOW-TO.md b/HOW-TO.md
@@ -34,7 +34,7 @@ Your work is remembered in the browser. The voice file is not, so add it again i
 ## What the animation can do
 
 - **Custom animation.** A picture built for one line out of parts: realistic flat-vector people (adult proportions, clothes, skin tones, hairstyles) who show a mood, react when something happens, talk in short speech bubbles and point, wave, cheer, walk or dig, icons, coins, labels, counting numbers, boxes, circles, bars, dotted grids, arrows, paths and outlines that draw themselves, speech bubbles and stamps. Parts can arrive, move, turn, grow, pulse, shake and leave at set moments. Claude writes these. To change one, tell Claude what you want to see.
-- **Places and real photos.** Every scene with a person in it stands somewhere that fits what is happening: a mine when someone digs, a courtroom for a lawsuit, a market for selling, a lab, a factory, a classroom, a bank vault, a stage, the sea, the desert, an ancient temple, a castle, a farm and more (23 places). They are drawn in layers that drift at different speeds so the picture has depth. The Storybook style paints them in full colour on a paper texture. Real photos from Wikimedia Commons can appear as a polaroid or a sticker that drops in and slowly zooms, with the credit added to the sources for you.
+- **Places and real photos.** Every scene with a person in it stands somewhere that fits what is happening: a mine when someone digs, a courtroom for a lawsuit, a market for selling, a lab, a factory, a classroom, a bank vault, a stage, the sea, the desert, an ancient temple, a castle, a farm and more (23 places). They are drawn in layers that drift at different speeds so the picture has depth. The Storybook style paints them in full colour on a paper texture, with people walking past in the distance, things close to the camera sliding by, and a soft cut-paper shadow under everything in front, so characters and graphics sit inside the place instead of floating over it. Real photos from Wikimedia Commons can appear as a polaroid or a sticker that drops in and slowly zooms, with the credit added to the sources for you.
 - **Ready-made scenes (29).** Big statement, Numbered steps, A versus B, Percent ring, Timeline, Bar chart, Growth curve, Big counting number, Follow button, Digging toward the goal, Late at night, Report card, Proof cards, What most people think, Forced or wanted, Teacher and student, and the story scenes with figures (crowds, pedestals, spotlight, tracking table and so on).
 - **Camera and texture.** Between scenes the camera drops, whips sideways or punches through. Hits shake the frame. Captions arrive word by word and the key words pop. People cast a soft shadow and are shaded on the side away from the light. Stones or dust drift behind the scene and a light film grain sits on top.
 

diff --git a/CUSTOM-ANIMATION.md b/CUSTOM-ANIMATION.md
@@ -106,7 +106,8 @@ A scene can stand somewhere instead of on a bare background. Scenery is drawn in
 - The place should match what the character is doing and what the line says: digging happens in a mine, a lawsuit in a courtroom, selling at a market, an invention in a lab, a launch on a stage. Change the place when the story moves.
 - Any scene with a person in it gets a matching place automatically when none is set. It reads the scene's words (and the character's action) and picks from the list above; if nothing matches it keeps the previous scene's place, then the video's topic. Set one yourself when you know better, or `"none"` to keep the scene plain.
 - In a custom scene, make it the first part: `{"is": "scenery", "kind": "city"}`. In any ready-made scene, add `"scenery": "office"` to its `p`.
-- Two ways to draw them, set by the style: soft shapes in the style's own colours (all styles), or full colour painted places with light, shade and a paper texture (the **Storybook** style, or Look > Backgrounds > Painted). In painted mode the captions sit on a paper card so they stay readable.
+- Two ways to draw them, set by the style: soft shapes in the style's own colours (all styles), or full colour painted places with light, shade and a paper texture (the **Storybook** style, or Look > Backgrounds > Painted). In painted mode the captions sit on a paper card so they stay readable, every scene gets a place (not only scenes with people), and everything in front of the place (people, cards, numbers, drawings) casts a soft cut-paper shadow onto it, so the picture reads as one world.
+- Places have life of their own: in painted mode people walk past in the distance (city, street, market, office, bank, factory), birds cross outdoor skies, and in tall videos things close to the camera (a desk with a steaming cup, crates, a bench, rocks, bushes, footlights, a velvet rope) fill the band under the ground and slide past faster than the rest. `"fore": false` or `"life": false` on a scenery object turns these off.
 
 ## Real photos
 
